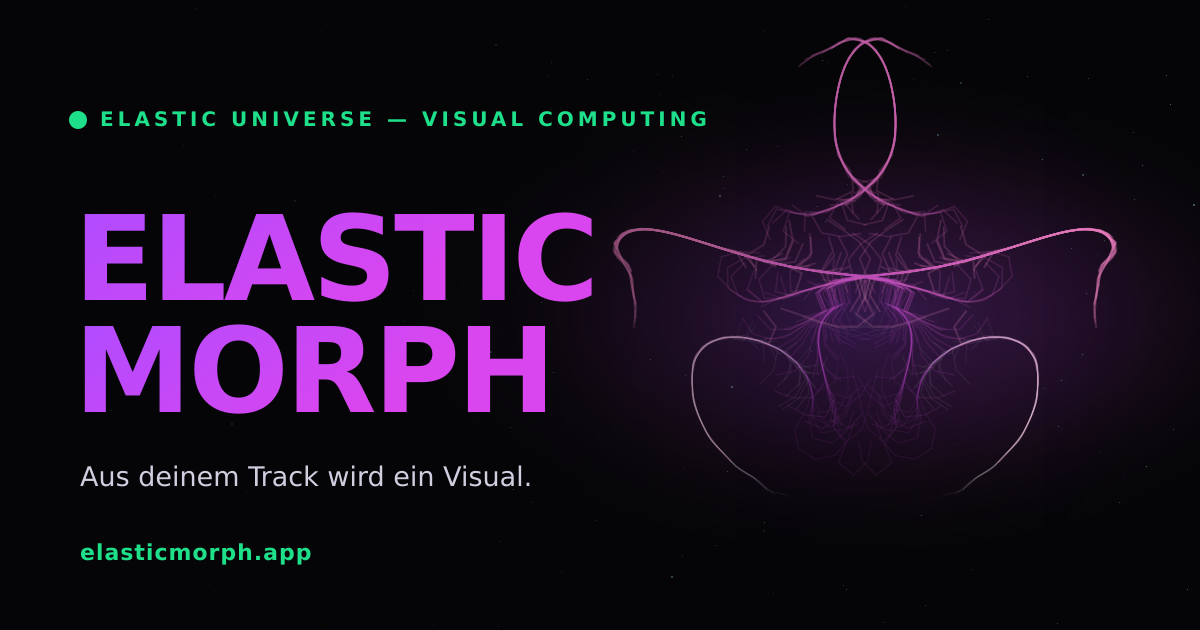
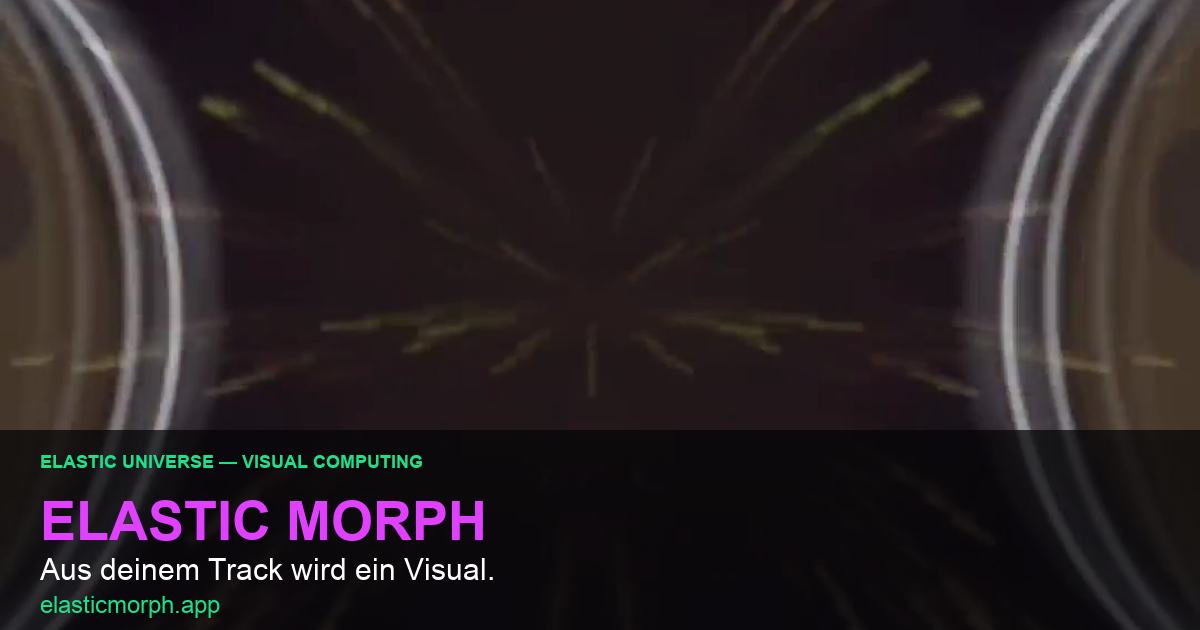
Add demo MP3, reel-based og.png, and fix E2E smoke tests (v97).
Faster demo load via 192kbps MP3, social preview from Dust Reel frame, encode:demo script, and Playwright strict-mode fixes.

diff --git a/scripts/encode-demo-mp3.js b/scripts/encode-demo-mp3.js
@@ -1,0 +1,34 @@
+#!/usr/bin/env node
+/* Encodes assets/demo/*.wav → MP3 for faster demo load (Launch Phase 1). */
+const { execFileSync } = require("child_process");
+const fs = require("fs");
+const path = require("path");
+
+const ROOT = path.join(__dirname, "..");
+const DEMO_DIR = path.join(ROOT, "assets", "demo");
+const FFMPEG = path.join(ROOT, "node_modules", "ffmpeg-static", "ffmpeg");
+
+if (!fs.existsSync(FFMPEG)) {
+  console.error("ffmpeg-static missing — run: npm install ffmpeg-static --save-dev");
+  process.exit(1);
+}
+
+const wavs = fs.readdirSync(DEMO_DIR).filter(f => f.toLowerCase().endsWith(".wav"));
+if (!wavs.length) {
+  console.error("No WAV in assets/demo/");
+  process.exit(1);
+}
+
+for (const wav of wavs) {
+  const mp3 = wav.replace(/\.wav$/i, ".mp3");
+  const inPath = path.join(DEMO_DIR, wav);
+  const outPath = path.join(DEMO_DIR, mp3);
+  console.log("Encoding", wav, "→", mp3);
+  execFileSync(FFMPEG, [
+    "-y", "-i", inPath,
+    "-codec:a", "libmp3lame", "-b:a", "192k",
+    outPath,
+  ], { stdio: "inherit" });
+  const mb = (fs.statSync(outPath).size / 1024 / 1024).toFixed(2);
+  console.log("✓", mp3, mb + " MB");
+}

diff --git a/e2e/smoke.spec.js b/e2e/smoke.spec.js
@@ -5,7 +5,7 @@ test.describe("Elastic Morph smoke", () => {
   test("landing page loads with CTA", async ({ page }) => {
     await page.goto("/index.html");
     await expect(page.locator("h1")).toContainText(/ELASTIC/i);
-    await expect(page.locator('a.pill.primary[href="elastic-morph.html"]')).toBeVisible();
+    await expect(page.locator('a.pill.primary[href="elastic-morph.html"]').first()).toBeVisible();
   });
 
   test("app shell and creator dock present", async ({ page }) => {
@@ -21,7 +21,6 @@ test.describe("Elastic Morph smoke", () => {
     });
     await page.goto("/elastic-morph.html");
     const welcome = page.locator("#welcomeOverlay");
-    const canvas = page.locator("#canvas");
-    await expect(welcome.or(canvas)).toBeVisible({ timeout: 10000 });
+    await expect(welcome).toBeVisible({ timeout: 10000 });
   });
 });

diff --git a/assets/demo/README.md b/assets/demo/README.md
@@ -3,35 +3,26 @@
 Der Button **„Demo starten“** lädt zuerst eine **echte Audio-Datei** aus diesem Ordner.  
 Nur wenn keine Datei da ist, fällt die App auf synthetisches Audio zurück.
 
-## Einrichtung (5 Minuten)
+## Aktueller Track
 
-1. **Rechtssicherer Track wählen** — eigenes Werk oder explizit lizenzfrei (kein fremdes Spotify-Release).
-2. Datei hier ablegen als **`elastic-morph-demo.mp3`** (alternativ `.wav`).
-3. **`demo.json`** anpassen — Titel + Künstler (erscheinen in der App).
-4. Optional kürzen: **45–90 Sekunden**, Hook/Drop sichtbar, BPM klar.
-5. Test: App öffnen → **Demo starten** → Banner zeigt Titel statt „synthetisches Audio“.
+| Datei | Größe | Rolle |
+|-------|-------|--------|
+| `Elastic Field - Dust Reel.mp3` | ~4 MB | **Primär** — schneller Load |
+| `Elastic Field - Dust Reel.wav` | ~49 MB | Fallback / Master |
+| `demo.json` | — | Metadaten «Dust Reel» · Elastic Field |
 
-## Empfohlene Track-Eigenschaften
+MP3 neu erzeugen aus WAV:
 
-| Kriterium | Warum |
-|-----------|--------|
-| 45–90 s | Schneller Wow, kleiner Download |
-| Deutlicher Beat | Visual reagiert sofort sichtbar |
-| Build-up + Drop | Showcase & Reels wirken professionell |
-| Stereo, nicht zu leise | Analyse (BPM, Energie) zuverlässiger |
-
-## Dateien
-
-| Datei | Pflicht |
-|-------|---------|
-| `elastic-morph-demo.mp3` oder `.wav` | Ja (für echten Demo) |
-| `demo.json` | Ja (Metadaten) |
+```bash
+npm run encode:demo
+```
 
 ## Prüfen
 
 ```bash
 npm run check:demo
 npm run build && npm test
+npm run test:e2e
 ```
 
-Dann im Browser: **Demo starten** — unten Banner: `Demo — «Titel» · Künstler`.
+Im Browser: **Demo starten** — Banner: `Demo — «Dust Reel» · Elastic Field`.

diff --git a/LAUNCH-CHECKLIST.md b/LAUNCH-CHECKLIST.md
@@ -13,7 +13,7 @@ Stand: **v97** (Launch Phase 1 — Dust Reel Demo)
 - [x] `assets/demo/demo.json` — «Dust Reel» · Elastic Field
 - [x] `npm run check:demo` grün
 - [x] **Demo starten** zeigt echten Titel im Banner
-- [ ] Optional: **Demo-MP3** (~5 MB) für schnelleren Load
+- [x] Optional: **Demo-MP3** (~4 MB) für schnelleren Load
 
 ### Produkt (5-Minuten-Test)
 - [ ] Du: Demo → Look → HQ Export (Chrome/Edge)
@@ -25,11 +25,11 @@ Stand: **v97** (Launch Phase 1 — Dust Reel Demo)
 ### Inhalte
 - [ ] **3–5 Showcase-Clips** (gleicher Demo-Track)
 - [x] **Landing-Reel** — `assets/elasticmorph_elasticfield_dustreel.mp4` (9:16, re-encoded)
-- [ ] **og.png** mit echtem Visual-Frame (Social Preview)
+- [x] **og.png** — Frame aus Dust Reel + Branding (1200×630)
 
 ### Technik
 - [x] `npm run build && npm test` grün (106 Tests)
-- [ ] `npm run test:e2e` grün
+- [x] `npm run test:e2e` grün (3 Smoke-Tests)
 - [x] Demo-Assets im Deploy (`assets/demo/*`)
 - [x] Service Worker Cache v97
 

diff --git a/LAUNCH-PHASE-1.md b/LAUNCH-PHASE-1.md
@@ -14,7 +14,7 @@ Stand: **v97** · Ziel: Launch-tauglicher **Wow-Moment** mit **echtem Demo-Song*
 | 4 | **3 Showcase-Clips** exportieren | ⬜ |
 | 5 | **Landing-Reel** | ✅ `assets/elasticmorph_elasticfield_dustreel.mp4` |
 | 6 | Technik-Check (Build, Unit-Tests) | ✅ 106 Tests · `check:demo` grün |
-| 7 | E2E Smoke | ⬜ `npm run test:e2e` |
+| 7 | E2E Smoke | ✅ 3/3 Playwright |
 
 ---
 
@@ -38,7 +38,7 @@ npm run build && npm test
 
 Im Browser: **Demo starten** → Banner zeigt `Demo — «Dust Reel» · Elastic Field`.
 
-**Optional:** MP3-Version für schnelleren ersten Load (Paket B).
+**Optional:** MP3-Version für schnelleren ersten Load — ✅ `Elastic Field - Dust Reel.mp3` (~4 MB, `npm run encode:demo`)
 
 ---
 
@@ -108,6 +108,7 @@ npm run check:demo                 # Demo-Track vorhanden
 - [x] Service Worker Cache = v97 (`sw.js`)
 - [x] `assets/demo/` mit deployen
 - [x] Universe `/tools/morph` auf v97 sync
+- [x] E2E Smoke: `npm run test:e2e` (3 Tests)
 
 ---
 